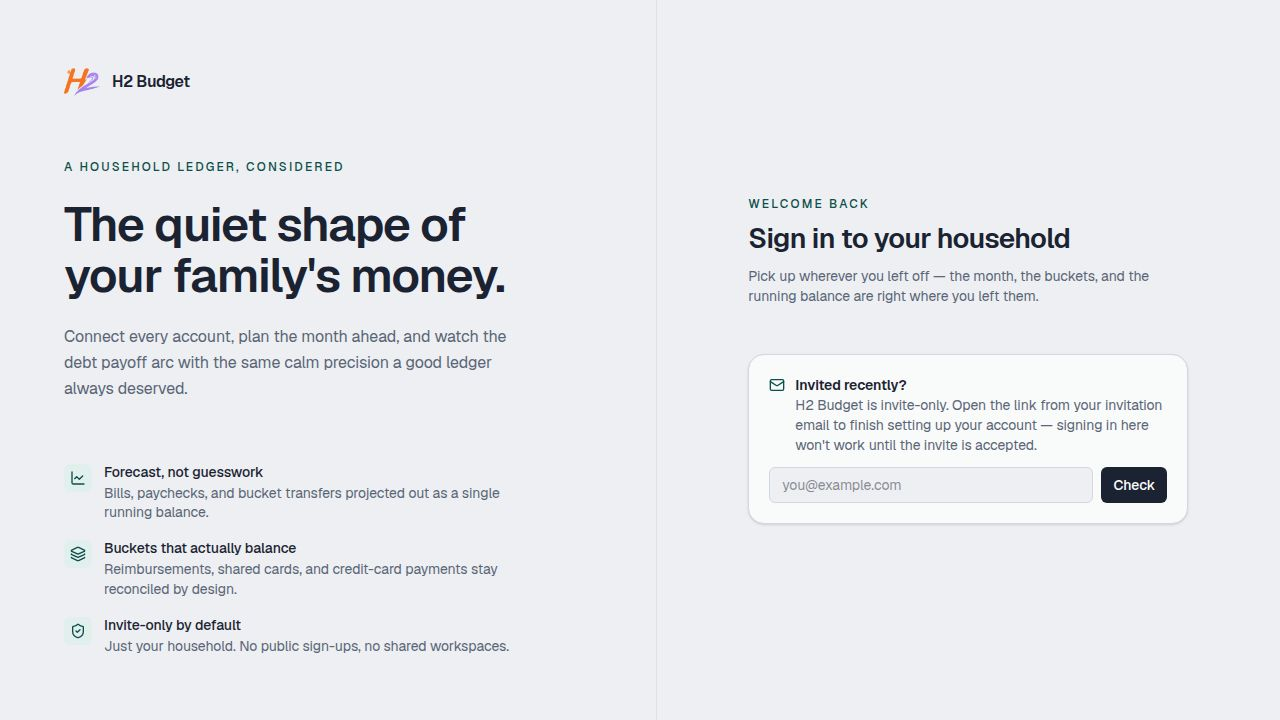
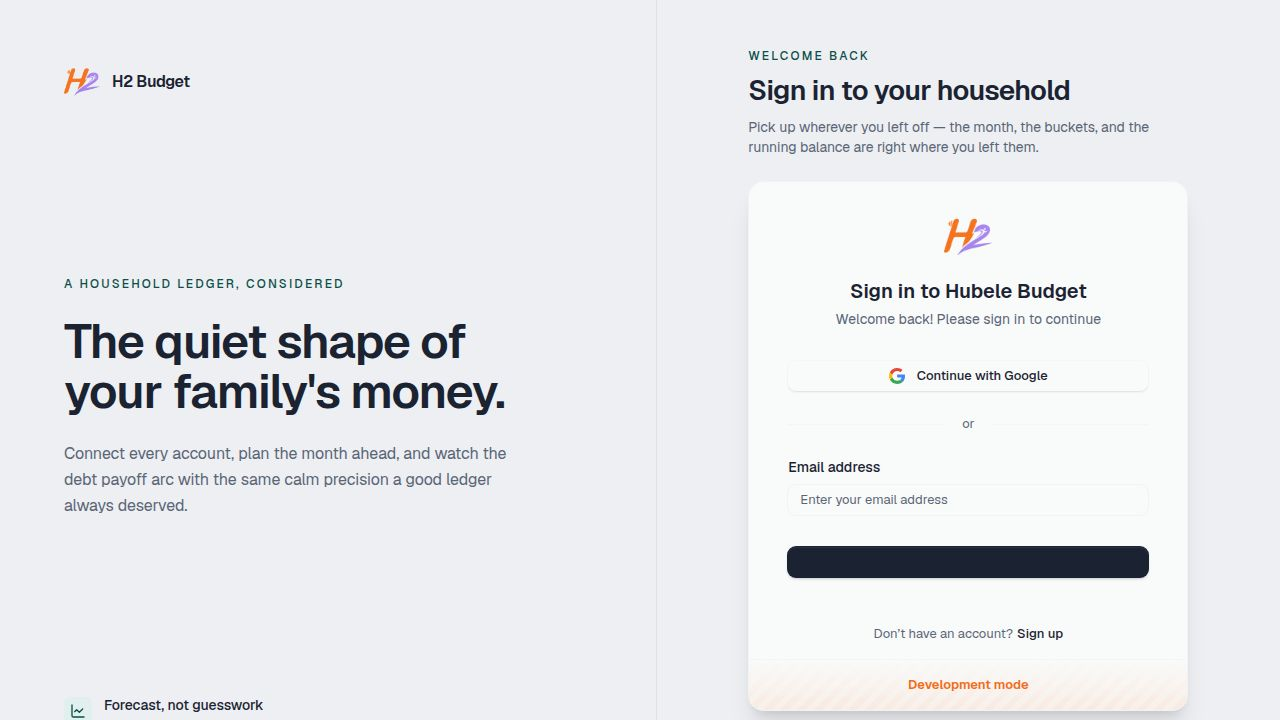
Fix Capital One Plaid Link uninteractable modal (nested-modal focus trap)
User reported: clicking "Link" on Capital One Quicksilver opens Plaid's
CAPTCHA modal, but the checkbox doesn't respond and the text cursor lands
in random spots. Root cause: PlaidLinkButton renders inside
PlaidAccountPicker's shadcn Dialog (and its own reauth-guard AlertDialog).
Radix's FocusScope traps focus inside DialogContent and applies
aria-hidden to siblings, so the Plaid SDK iframe at the document root
can't receive pointer/focus events.

Fix (per user's diagnosis + 2 rounds of architect review):

PlaidAccountPicker (debt-plaid-link.tsx)
- Added `yieldingToPlaid` state.
- Dialog now renders `modal={!yieldingToPlaid}` — releases Radix's
  FocusScope while Plaid owns the screen.
- Resets defensively on outer `open=false`.

PlaidLinkButton (plaid-link-button.tsx)
- New optional `onOpen` / `onExit` props so parent Dialogs can hook into
  the SDK's lifecycle without owning the linkToken.
- Local `yieldingToPlaid` state mirrors the parent's so the inner
  reauth-guard AlertDialog (Radix hard-wires modal=true, no escape
  hatch) is closed via `open={reauthGuardOpen && !yieldingToPlaid}`
  when nested reconnect kicks off.
- Race fix (architect #1): open effect now does
  `flushSync(() => { setYieldingToPlaid(true); onOpenPropRef.current?.() })`
  then `requestAnimationFrame(open)`, guaranteeing Radix tears down
  before Plaid opens.
- Double-fire fix (architect #2): parent callbacks stored in refs
  (no dep churn) + `openedTokenRef` dedup guard.
[…]

diff --git a/artifacts/h2budget/src/components/plaid-link-button.tsx b/artifacts/h2budget/src/components/plaid-link-button.tsx
@@ -1,4 +1,5 @@
 import { useCallback, useEffect, useMemo, useRef, useState } from "react";
+import { flushSync } from "react-dom";
 import { usePlaidLink } from "react-plaid-link";
 import {
   useCreatePlaidLinkToken,
@@ -108,6 +109,8 @@ export type PostLinkStatus = {
 export function PlaidLinkButton({
   onLinked,
   onImportReady,
+  onOpen: onOpenProp,
+  onExit: onExitProp,
   label,
   viewTransactionsPath = "/transactions",
   inlineProgress = true,
@@ -122,6 +125,23 @@ export function PlaidLinkButton({
    * empty-state pinned to the currently-selected month.
    */
   onImportReady?: (info: { added: number; modified: number }) => void;
+  /**
+   * (#804-followup) Fires the moment the Plaid SDK is about to open its
+   * iframe modal. Callers that render this button INSIDE another modal
+   * (e.g. the debt-link PlaidAccountPicker shadcn Dialog) use this hook
+   * to flip their own Dialog into non-modal mode, releasing Radix's
+   * FocusScope so the Plaid iframe at the document root can receive
+   * pointer and focus events. Without that, the user sees a CAPTCHA
+   * checkbox they can't click and a text input they can't focus.
+   */
+  onOpen?: () => void;
+  /**
+   * (#804-followup) Fires after the Plaid SDK closes its modal without
+   * a successful exchange (user dismissed, errored out, etc). Pairs
+   * with `onOpen` so a parent Dialog that yielded modality while Plaid
+   * was on screen can restore its own focus trap.
+   */
+  onExit?: () => void;
   label?: string;
   /**
    * (#402) Base path for the "View imported transactions" deep-link in
@@ -482,6 +502,14 @@ export function PlaidLinkButton({
             );
             setLinkToken(null);
             clearStoredLinkToken();
+            // (#804-followup) Restore our own AlertDialog's focus trap
+            // (and let the parent picker restore its own via onExitProp,
+            // which is wired into handleSdkExit too). The success path
+            // doesn't run through usePlaidLink.onExit, so we have to
+            // flip both flags here as well.
+            setYieldingToPlaid(false);
+            onExitPropRef.current?.();
+            openedTokenRef.current = null;
             onLinked?.();
 
             // (#44) Scope post-Link candidates to the just-linked item so
@@ -517,39 +545,97 @@ export function PlaidLinkButton({
     [exchange, qc, toast, clearStoredLinkToken, onLinked, pollAfterLink],
   );
 
+  // (#804-followup) Stable refs for the parent yield-callbacks. Putting
+  // these in the open() effect's dep array would re-run the effect every
+  // time the parent re-renders (handlers are recreated each render),
+  // which can double-fire open() for a single linkToken — architect
+  // review #1 flagged this. Refs let the effect call the latest handler
+  // without depending on its identity.
+  const onOpenPropRef = useRef(onOpenProp);
+  const onExitPropRef = useRef(onExitProp);
+  useEffect(() => {
+    onOpenPropRef.current = onOpenProp;
+    onExitPropRef.current = onExitProp;
+  });
+
+  // (#804-followup) Locally tracks whether the Plaid SDK iframe is on
+  // screen so our own reauth-guard AlertDialog (rendered below) can
+  // flip to non-modal alongside the parent picker. Without this the
+  // guard's Radix FocusScope re-introduces the same iframe-uninteractable
+  // bug for reconnect flows launched from the guard.
+  const [yieldingToPlaid, setYieldingToPlaid] = useState(false);
+
+  // (#804-followup) Dedup ref so a single linkToken never triggers two
+  // open() calls — architect review #2.
+  const openedTokenRef = useRef<string | null>(null);
+
   const { open, ready } = usePlaidLink({
     token: linkToken,
     onSuccess,
     onExit: () => {
       setLinkToken(null);
       clearStoredLinkToken();
+      openedTokenRef.current = null;
+      // (#804-followup) Restore our AlertDialog's focus trap and tell
+      // any parent Dialog (e.g. the debt-link picker) to restore its
+      // own. Fires for every user-driven dismissal (close, back, error).
+      setYieldingToPlaid(false);
+      onExitPropRef.current?.();
     },
   });
 
   useEffect(() => {
-    if (linkToken && ready) {
-      // (TEMP DIAG #804-followup) Identify which Plaid open() trigger
-      // actually fires when the broken Capital One modal appears.
-      // Remove once root cause is confirmed.
-      // eslint-disable-next-line no-console
-      console.log(
-        "[plaid-diag] PlaidLinkButton.open()",
-        { tokenPrefix: linkToken.slice(0, 24), ts: Date.now() },
+    if (!linkToken || !ready) return;
+    if (openedTokenRef.current === linkToken) return;
+    openedTokenRef.current = linkToken;
+
+    // Stash the active link_token (and where to return to) before
+    // opening Link, so OAuth bounce-back can resume the handshake.
+    try {
+      localStorage.setItem(PLAID_LINK_TOKEN_STORAGE_KEY, linkToken);
+      localStorage.setItem(
+        PLAID_RETURN_TO_STORAGE_KEY,
+        window.location.pathname + window.location.search,
       );
-      // Stash the active link_token (and where to return to) before
-      // opening Link, so OAuth bounce-back can resume the handshake.
-      try {
-        localStorage.setItem(PLAID_LINK_TOKEN_STORAGE_KEY, linkToken);
-        localStorage.setItem(
-          PLAID_RETURN_TO_STORAGE_KEY,
-          window.location.pathname + window.location.search,
-        );
-      } catch {
-        // ignore — non-OAuth banks still work without storage
-      }
-      open();
+    } catch {
+      // ignore — non-OAuth banks still work without storage
     }
+
+    // (#804-followup) Architect review #1: make the modality release
+    // deterministic. flushSync commits the parent state update (and our
+    // local one) synchronously, so Radix's Dialog/AlertDialog re-renders
+    // with modal=false and tears down its FocusScope BEFORE we call
+    // open(). The RAF then defers open() to the next frame so any
+    // useEffect-based Radix cleanup also has a tick to run.
+    flushSync(() => {
+      setYieldingToPlaid(true);
+      onOpenPropRef.current?.();
+    });
+    requestAnimationFrame(() => open());
   }, [linkToken, ready, open]);
+
+  // (#804-followup) Reconnect button handlers used inside our own
+  // reauth-guard AlertDialog. Mirror the same yield-before-open pattern
+  // so the guard's nested modal doesn't re-trap focus when the
+  // reconnect flow opens Plaid in update mode.
+  const handleNestedReconnectOpen = useCallback(() => {
+    // (#804-followup) Radix AlertDialog is hard-wired modal=true (no
+    // `modal` prop), so we can't just release its FocusScope the way
+    // the picker Dialog does. Instead we close the guard entirely the
+    // moment the reconnect flow opens Plaid — the user already made
+    // their pick by clicking Reconnect, and re-showing the guard
+    // afterwards adds no value. flushSync + RAF (in the child's open
+    // effect) still ensures Radix tears down before Plaid opens.
+    flushSync(() => {
+      setYieldingToPlaid(true);
+      setReauthGuardOpen(false);
+      onOpenPropRef.current?.();
+    });
+  }, []);
+  const handleNestedReconnectExit = useCallback(() => {
+    setYieldingToPlaid(false);
+    onExitPropRef.current?.();
+  }, []);
 
   const busy = createLinkToken.isPending || exchange.isPending;
   // Disable Link Bank when the API reports Plaid isn't configured (or the
@@ -597,7 +683,7 @@ export function PlaidLinkButton({
         />
       )}
       <AlertDialog
-        open={reauthGuardOpen}
+        open={reauthGuardOpen && !yieldingToPlaid}
         onOpenChange={(v) => setReauthGuardOpen(v)}
       >
         <AlertDialogContent data-testid="dialog-reauth-guard">
@@ -624,6 +710,8 @@ export function PlaidLinkButton({
                 <PlaidReconnectButton
                   itemId={it.id}
                   institutionName={it.institutionName}
+                  onOpen={handleNestedReconnectOpen}
+                  onExit={handleNestedReconnectExit}
                 />
               </li>
             ))}

diff --git a/artifacts/h2budget/src/components/plaid-reconnect-button.tsx b/artifacts/h2budget/src/components/plaid-reconnect-button.tsx
@@ -1,4 +1,5 @@
 import { useCallback, useEffect, useRef, useState } from "react";
+import { flushSync } from "react-dom";
 import { usePlaidLink } from "react-plaid-link";
 import {
   useCreatePlaidUpdateLinkToken,
@@ -173,10 +174,26 @@ export function PlaidReconnectButton({
   itemId,
   institutionName,
   size = "sm",
+  onOpen,
+  onExit,
 }: {
   itemId: string;
   institutionName?: string | null;
   size?: "default" | "sm" | "lg" | "icon";
+  /**
+   * (#804-followup) Fires the moment the Plaid SDK is about to open its
+   * iframe modal. Parent components that render this button inside a
+   * Radix Dialog/AlertDialog use this hook to flip their modal into
+   * non-modal mode, releasing the FocusScope so the Plaid iframe can
+   * receive pointer/focus events. Standalone callers (debt row,
+   * settings) can omit it.
+   */
+  onOpen?: () => void;
+  /**
+   * (#804-followup) Pairs with `onOpen` — fires when the Plaid SDK
+   * closes so the parent can restore its focus trap.
+   */
+  onExit?: () => void;
 }) {
   const [linkToken, setLinkToken] = useState<string | null>(null);
   // (#367) When /plaid/link-token/update returns 409 + action:"relink"
@@ -253,6 +270,14 @@ export function PlaidReconnectButton({
     setLinkToken(null);
     const wasFresh = freshMode;
     setFreshMode(false);
+    // (#804-followup, architect round 2) Plaid SDK does NOT fire its
+    // onExit handler after a successful link, so without this the
+    // parent yield state (e.g. PlaidLinkButton's `yieldingToPlaid`)
+    // would stay stuck `true` after a successful nested reconnect,
+    // leaving the parent modal in a non-restored state. Reset the
+    // dedup ref too so a future reconnect attempt can fire open().
+    openedTokenRef.current = null;
+    onExitRef.current?.();
     if (cancelledRef.current) return;
     // (#367) When this is the fresh-link fallback path (409 → relink),
     // the public_token has to be exchanged for a new access_token via
@@ -330,34 +355,45 @@ export function PlaidReconnectButton({
     }
   }, [institutionName, itemId, qc, runSync, toast, freshMode, exchange]);
 
+  // (#804-followup) Stable refs for parent yield-callbacks — same
+  // pattern as PlaidLinkButton. Keeps the open() effect off the
+  // callbacks' identity so a parent re-render can't double-fire open().
+  const onOpenRef = useRef(onOpen);
+  const onExitRef = useRef(onExit);
+  useEffect(() => {
+    onOpenRef.current = onOpen;
+    onExitRef.current = onExit;
+  });
+
+  // (#804-followup) Dedup so a single linkToken triggers at most one
+  // open() — guards against architect-flagged double-fire when parent
+  // state churn re-runs this effect.
+  const openedTokenRef = useRef<string | null>(null);
+
   const { open, ready } = usePlaidLink({
     token: linkToken,
     onSuccess,
     onExit: () => {
       setLinkToken(null);
       setFreshMode(false);
+      openedTokenRef.current = null;
+      // (#804-followup) Restore any parent modal's focus trap.
+      onExitRef.current?.();
     },
   });
 
   useEffect(() => {
-    if (linkToken && ready) {
-      // (TEMP DIAG #804-followup) Identify which Plaid open() trigger
-      // actually fires when the broken Capital One modal appears.
-      // Remove once root cause is confirmed.
-      // eslint-disable-next-line no-console
-      console.log(
-        "[plaid-diag] PlaidReconnectButton.open()",
-        {
-          itemId,
-          institutionName,
-          freshMode,
-          tokenPrefix: linkToken.slice(0, 24),
-          ts: Date.now(),
-        },
-      );
-      open();
-    }
-  }, [linkToken, ready, open, itemId, institutionName, freshMode]);
+    if (!linkToken || !ready) return;
+    if (openedTokenRef.current === linkToken) return;
+    openedTokenRef.current = linkToken;
+    // (#804-followup) flushSync the parent yield-flip so Radix tears
+    // down its FocusScope BEFORE Plaid opens; RAF defers open() one
+    // frame so any useEffect-based cleanup also has a tick.
+    flushSync(() => {
+      onOpenRef.current?.();
+    });
+    requestAnimationFrame(() => open());
+  }, [linkToken, ready, open]);
 
   const busy =
     createUpdateLinkToken.isPending ||

diff --git a/artifacts/h2budget/src/components/debt-plaid-link.tsx b/artifacts/h2budget/src/components/debt-plaid-link.tsx
@@ -493,8 +493,32 @@ function PlaidAccountPicker({
     if (!open) setShowAllAccounts(false);
   }, [open]);
 
+  // (#804-followup) Plaid SDK renders its Link modal as an iframe at
+  // the document root, OUTSIDE our React tree. While our shadcn Dialog
+  // is `modal={true}` (the default), Radix's FocusScope traps focus
+  // inside DialogContent and applies aria-hidden to siblings — which
+  // makes Plaid's CAPTCHA checkbox unclickable and text inputs
+  // unfocusable. Flip the picker Dialog to non-modal whenever the
+  // inner PlaidLinkButton is about to open Plaid, and restore the trap
+  // when Plaid closes (success OR exit). Resets defensively when the
+  // picker itself closes so a new open() starts in the trapped state.
+  const [yieldingToPlaid, setYieldingToPlaid] = useState(false);
+  useEffect(() => {
+    if (!open) setYieldingToPlaid(false);
+  }, [open]);
+  const handlePlaidLinked = () => {
+    setYieldingToPlaid(false);
+    accounts.refetch();
+  };
+  const handlePlaidOpen = () => setYieldingToPlaid(true);
+  const handlePlaidExit = () => setYieldingToPlaid(false);
+
   return (
-    <Dialog open={open} onOpenChange={onOpenChange}>
+    <Dialog
+      open={open}
+      onOpenChange={onOpenChange}
+      modal={!yieldingToPlaid}
+    >
       <DialogContent className="max-w-2xl">
         <DialogHeader>
           <DialogTitle>Link {debt.name} to Plaid</DialogTitle>
@@ -559,9 +583,9 @@ function PlaidAccountPicker({
               <div className="flex justify-center">
                 <PlaidLinkButton
                   label={`Link a bank for ${debt.name}`}
-                  onLinked={() => {
-                    accounts.refetch();
-                  }}
+                  onLinked={handlePlaidLinked}
+                  onOpen={handlePlaidOpen}
+                  onExit={handlePlaidExit}
                 />
               </div>
               <button
@@ -659,9 +683,9 @@ function PlaidAccountPicker({
             </p>
             <PlaidLinkButton
               label="Link another institution"
-              onLinked={() => {
-                accounts.refetch();
-              }}
+              onLinked={handlePlaidLinked}
+              onOpen={handlePlaidOpen}
+              onExit={handlePlaidExit}
             />
           </div>
         </div>

diff --git a/artifacts/h2budget/src/components/plaid-reconnect-listener.tsx b/artifacts/h2budget/src/components/plaid-reconnect-listener.tsx
@@ -181,24 +181,8 @@ export function PlaidReconnectListener() {
   });
 
   useEffect(() => {
-    if (linkToken && ready) {
-      // (TEMP DIAG #804-followup) Identify which Plaid open() trigger
-      // actually fires when the broken Capital One modal appears.
-      // Remove once root cause is confirmed.
-      // eslint-disable-next-line no-console
-      console.log(
-        "[plaid-diag] PlaidReconnectListener.open()",
-        {
-          pendingItemId: pending?.itemId ?? null,
-          pendingInstitution: pending?.institutionName ?? null,
-          freshMode,
-          tokenPrefix: linkToken.slice(0, 24),
-          ts: Date.now(),
-        },
-      );
-      open();
-    }
-  }, [linkToken, ready, open, pending, freshMode]);
+    if (linkToken && ready) open();
+  }, [linkToken, ready, open]);
 
   return null;
 }